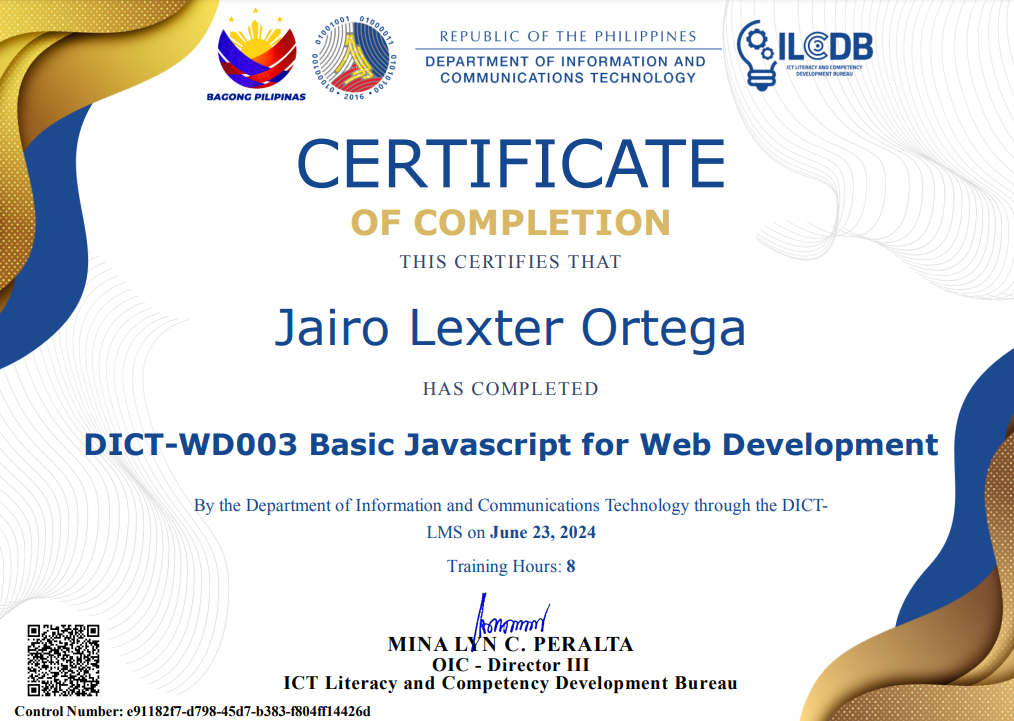
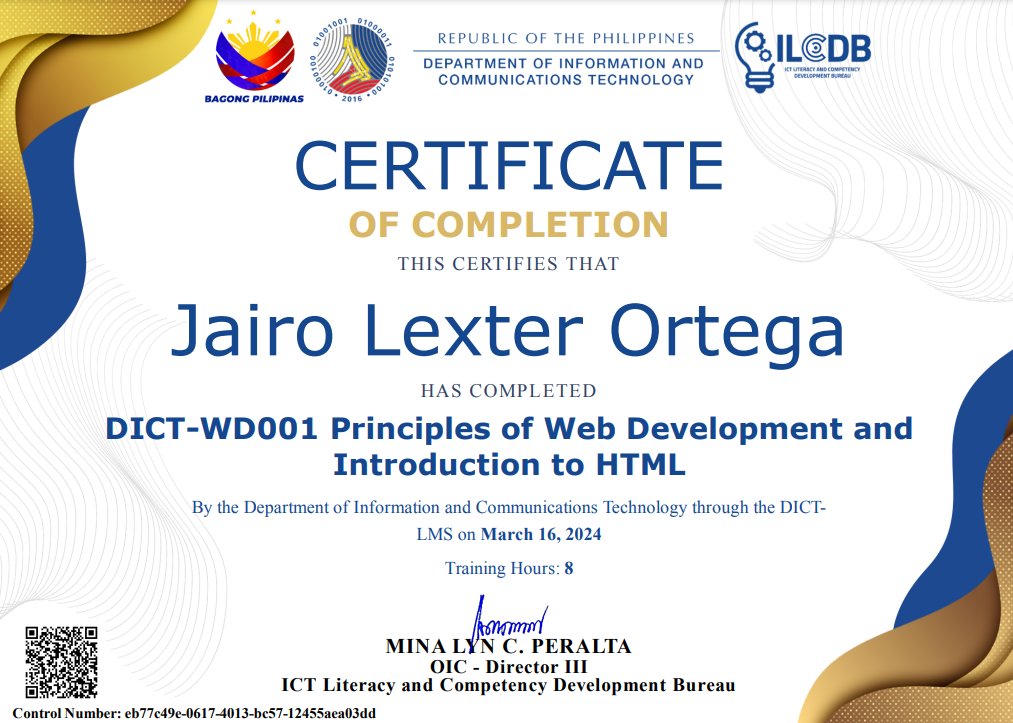
added certificates

diff --git a/src/App.jsx b/src/App.jsx
@@ -410,6 +410,12 @@ function ShowEducation() {
           <SwiperSlide>
             <img src="./certs/cert5.png" />
           </SwiperSlide>
+          <SwiperSlide>
+            <img src="./certs/cert6.png" />
+          </SwiperSlide>
+          <SwiperSlide>
+            <img src="./certs/cert7.png" />
+          </SwiperSlide>
         </Swiper>
         <Swiper
           onSwiper={setThumbsSwiper}
@@ -434,6 +440,12 @@ function ShowEducation() {
           </SwiperSlide>
           <SwiperSlide>
             <img src="./certs/cert5.png" />
+          </SwiperSlide>
+          <SwiperSlide>
+            <img src="./certs/cert6.png" />
+          </SwiperSlide>
+          <SwiperSlide>
+            <img src="./certs/cert7.png" />
           </SwiperSlide>
         </Swiper>
       </div>
